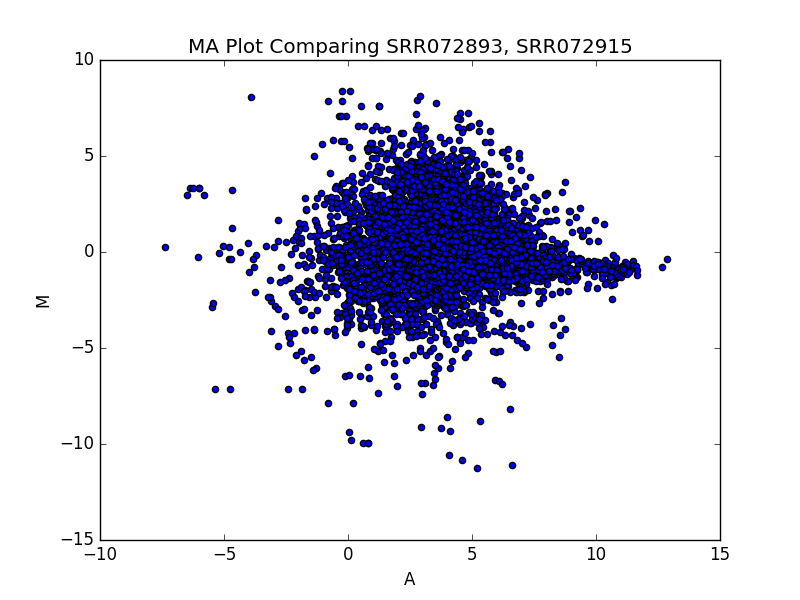
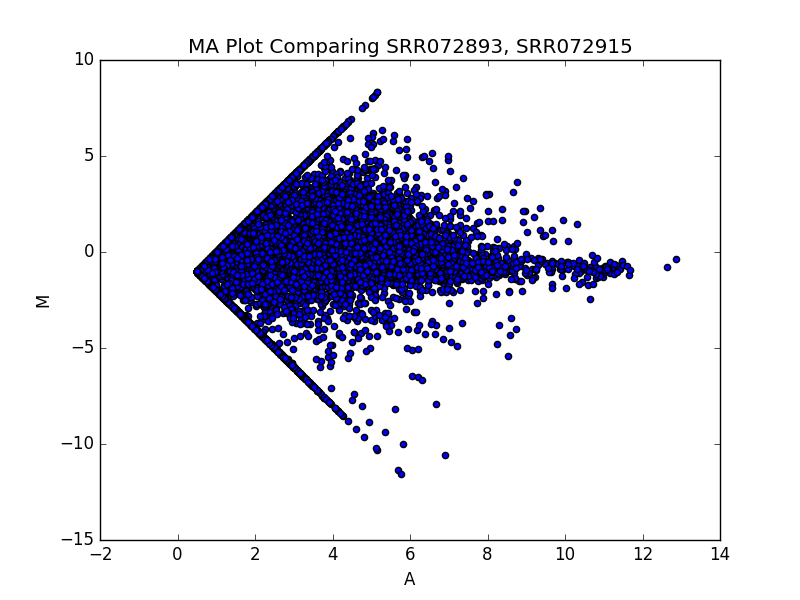
stuff

diff --git a/day4-homework/ma_plot.py b/day4-homework/ma_plot.py
@@ -23,8 +23,8 @@ data2 = df2["FPKM"].values
 
 
 #take logs of these data frames
-logdf1 = np.log2(data1)
-logdf2 =np.log2(data2)
+logdf1 = np.log2(data1 + 1)
+logdf2 =np.log2(data2 + 2)
 #calculate M and A statistics (note M is y, A is x)
 y = logdf1-logdf2
 x = 0.5 * (logdf1 + logdf2)
